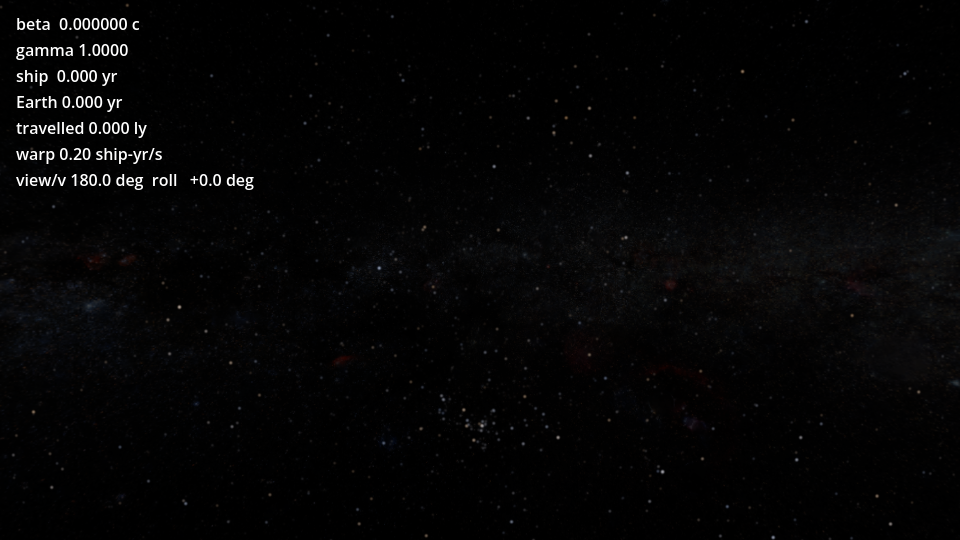
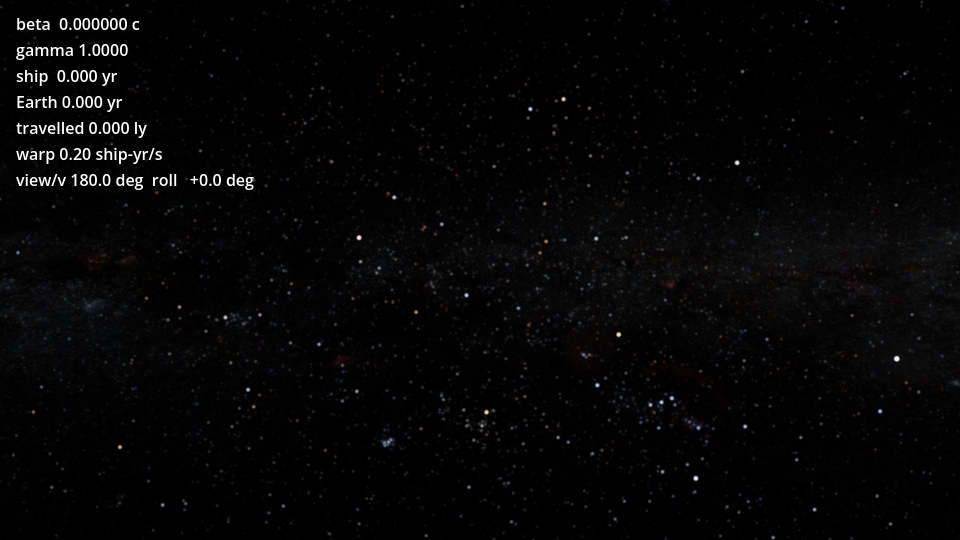
M1.3 on the bright tier: stack quick's HIP fill, port capture view, re-captured R-b renders
- load_tiers: medium/large + quick's HIP-filled rows (flag 8; Sirius, alpha Cen A/B, Procyon...
  have no GCNS photometry and the bright tier excludes CNS5 matches) + bright: 335,157 stars
- test: only_flags fixture; Sirius drawn within 0.2 deg of SIMBAD at V -1.44 from the stack
- make capture: port view (l = 270: Canopus, alpha Cen, Sirius, LMC)
- docs/m1.3: renders re-captured with the bright tier and inspected

Claude-Session: https://claude.ai/code/session_01Dvti2W94QfXDcYLoyzr7n3

diff --git a/changelogs/unreleased/2026-10-02-starfield-v2.md b/changelogs/unreleased/2026-10-02-starfield-v2.md
@@ -4,6 +4,10 @@
   default large when built, else medium) through `sky/star_catalogue.gd`, plus the bright tier on
   top once M1.2d builds it. The large tier is 324,307 instances (7,005 GCNS rows without
   photometry are skipped). The starfield no longer reads `stars.json`.
+- With M1.2d merged, the medium and large tiers also stack quick's 137 HIP-filled rows (flag 8:
+  Sirius, α Cen A/B, Procyon, Altair, ...; GCNS has no photometry for them and the bright tier
+  excludes them as CNS5 matches) and the bright tier: 335,157 stars on the large tier.
+  `make capture` gains a port view (galactic l = 270: Canopus, α Cen, Sirius, the LMC).
 - Instance custom data is (T_eff, E_v at Sol in lux from `illuminanceFromV`, flags, |p|²); the
   shader rescales E_v by inverse square and multiplies by `pointFluxRatio(T, D)`.
 - Rebasing (gate 5): positions are float64 on the CPU and uploaded as float32 hi/lo pairs with
